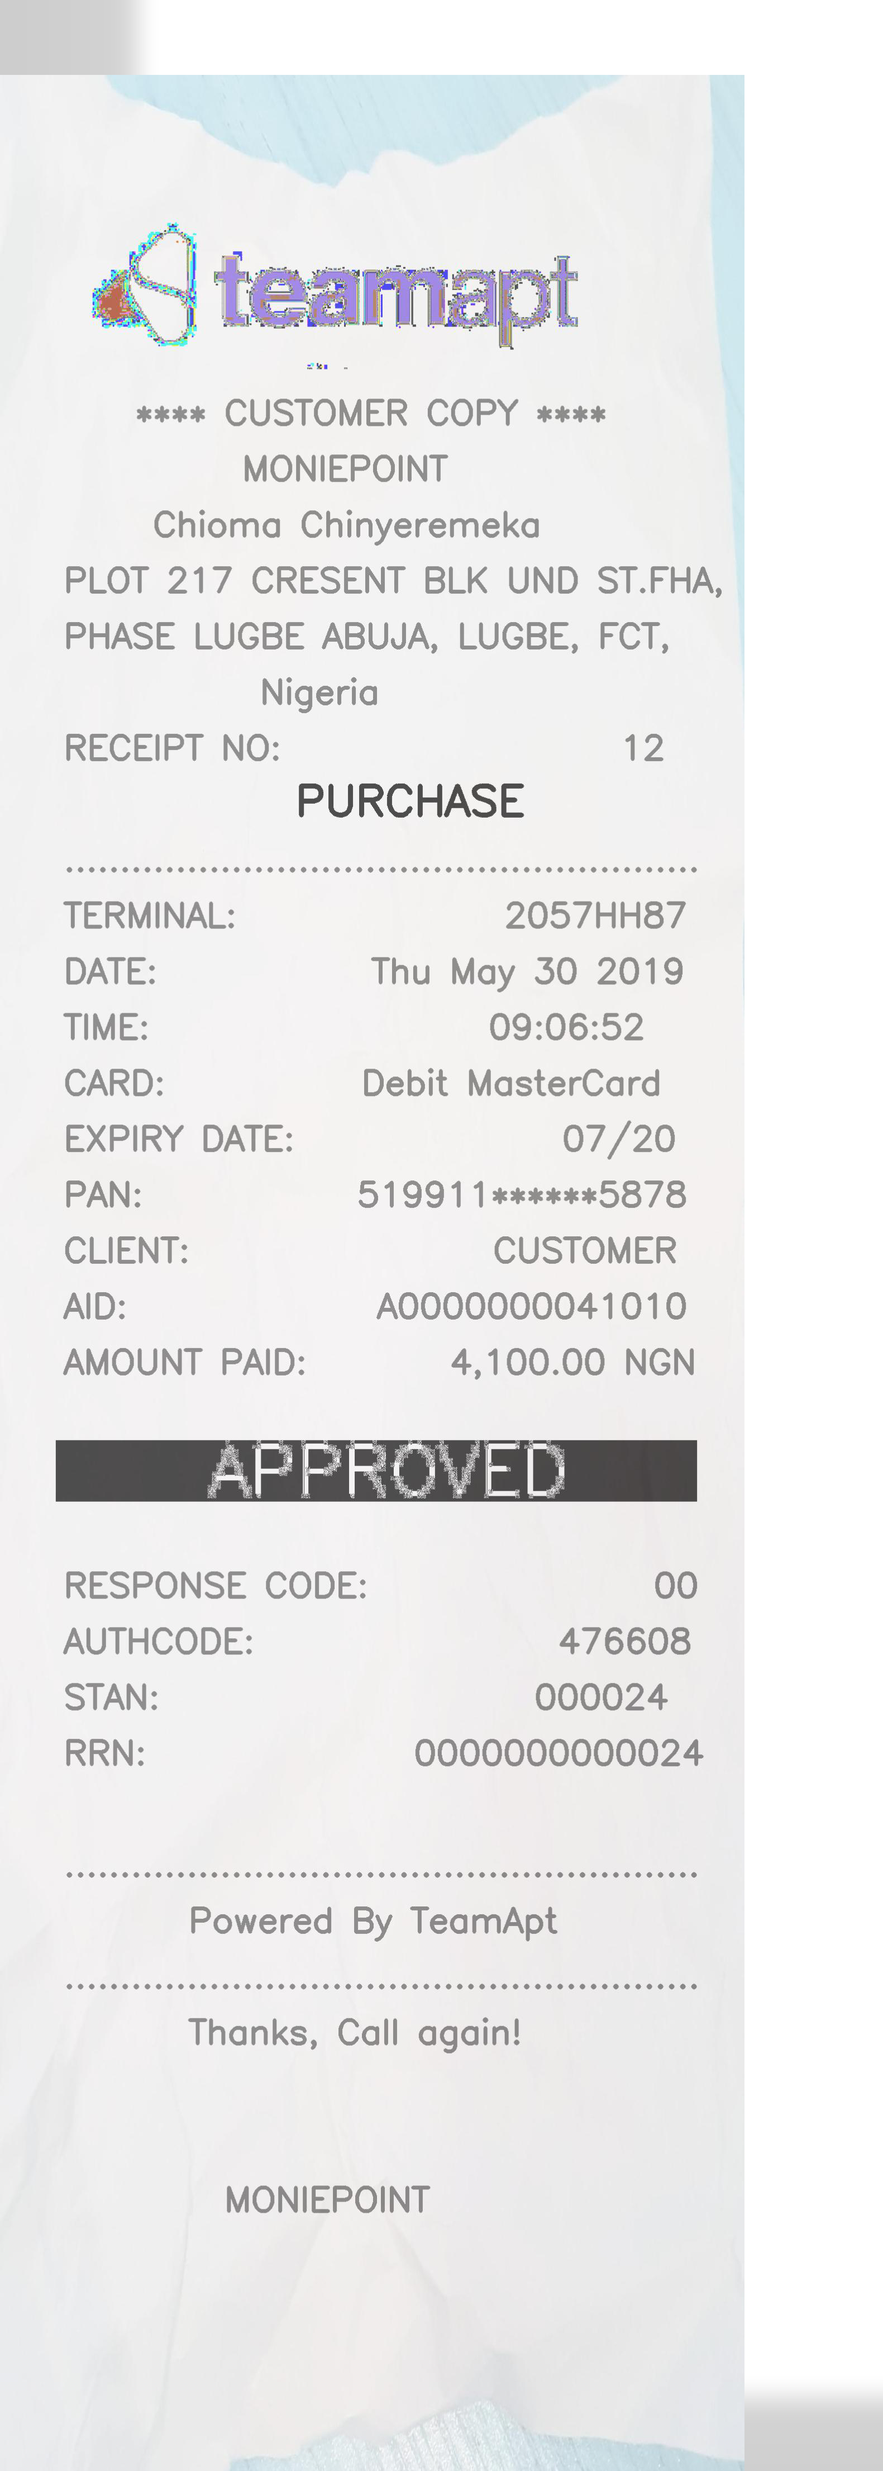
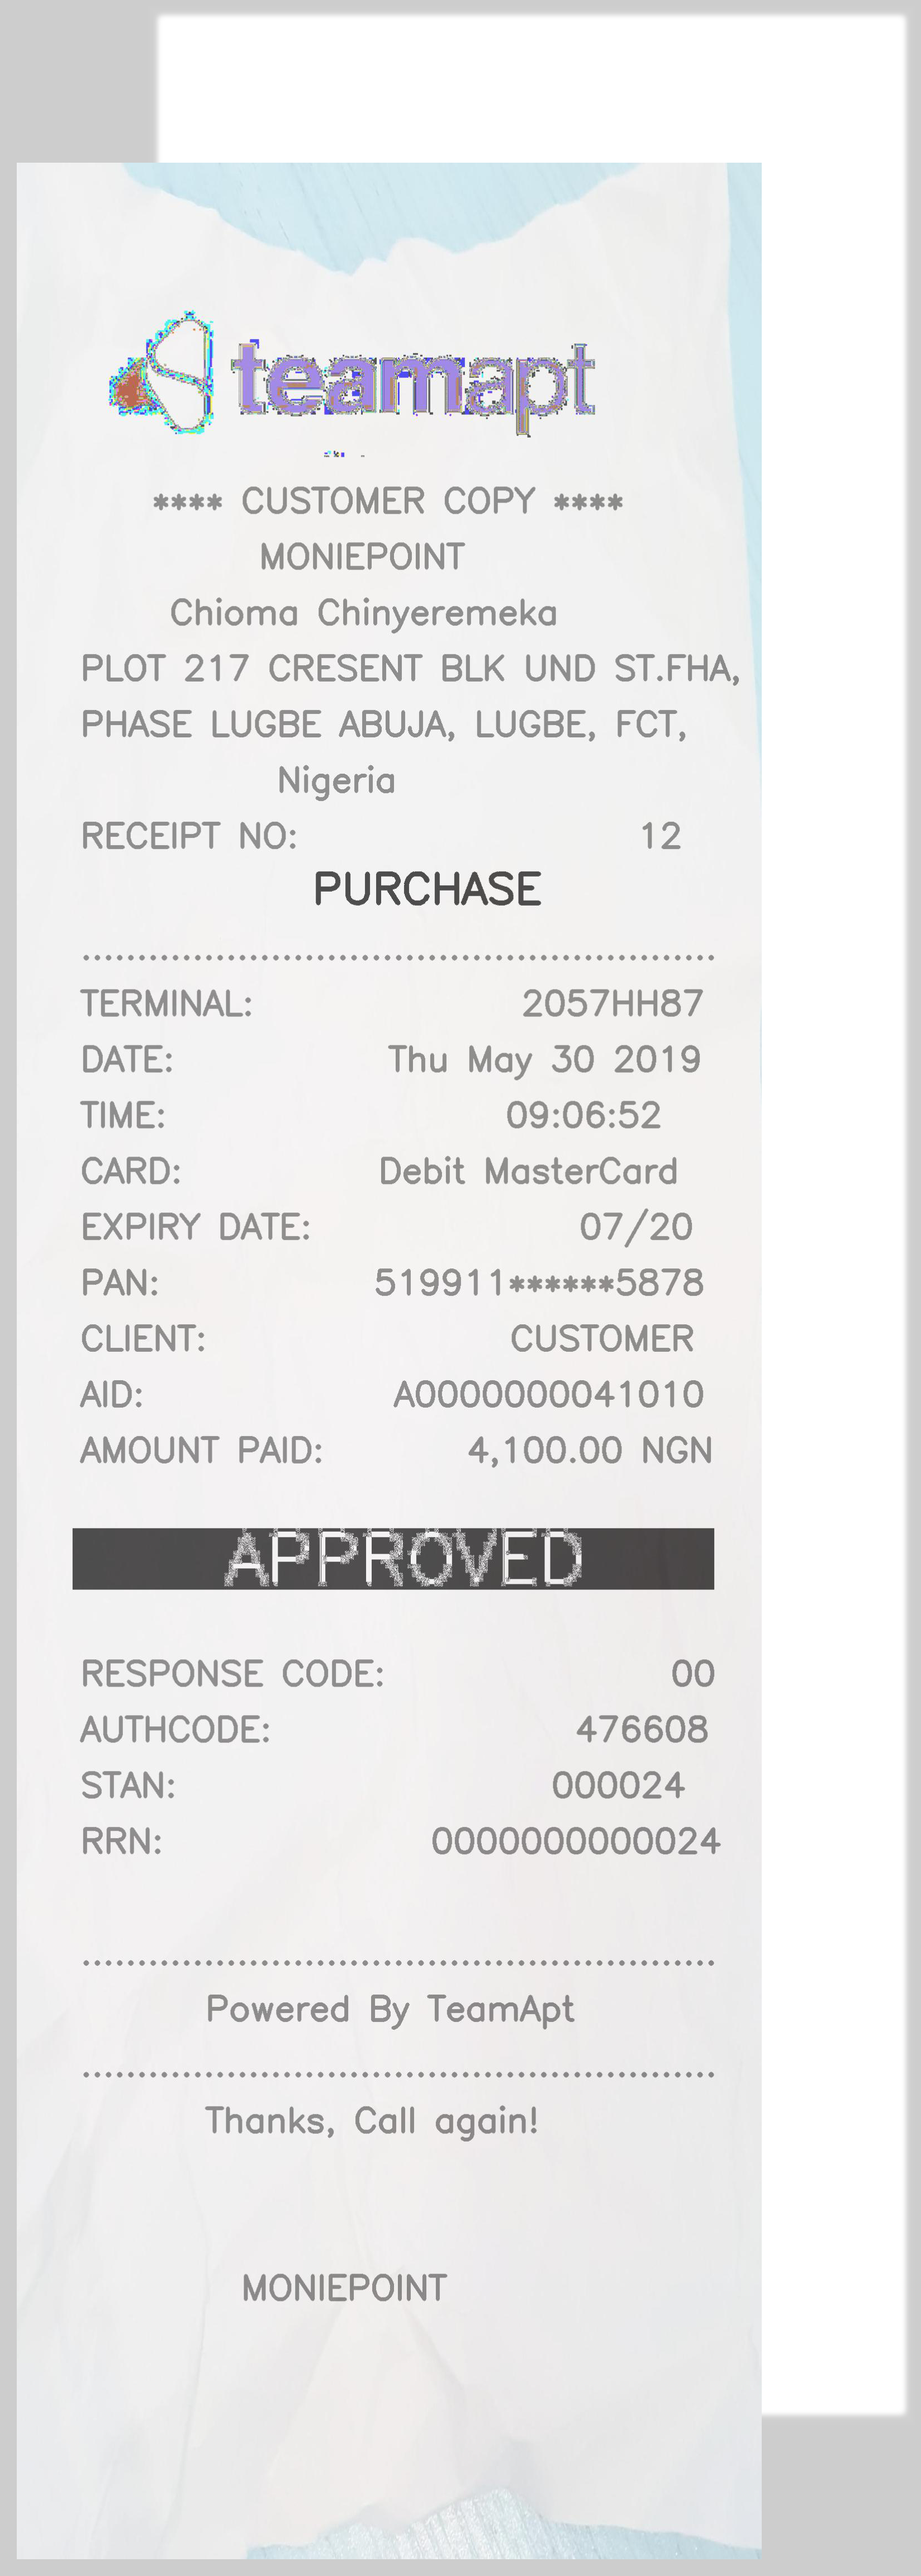
modified shadow transparency, blurr and color

diff --git a/factory.py b/factory.py
@@ -12,24 +12,22 @@ pathToBg = './bg/'
 outputPath = './production-ready/'
 shadowImgPath = './shadow-images/'
 
-for i in range(num):
+for i in range(1):
     print(i)
-    offset=(r.randint(100,300), r.randint(-300,-100))
+    offset=(r.randint(100,400), r.randint(-400,-100))
     print('shadow offset:', offset)
     
     img = sm.Image.open(pathToFinal + str(i+1) + '.jpg')
     bg = cv2.imread(pathToBg + str(i+1) + '.jpeg')
 
     # add shadow to image
-    shadow = sm.createShadow(img, offset=offset, border=0, background=0x000)
-    shadowImage = sm.addShadow(image=img, back_shadow=shadow, offset=offset, border=0, shadow=0x111111, iterations=10)
+    shadow = sm.createShadow(img, offset=offset, border=30, background=0x000000)
+    shadowImage = sm.addShadow(image=img, image_shadow=shadow, offset=offset, border=30, shadow_color=0x000000, iterations=10)
     shadowImage.save(shadowImgPath + str(i+1)+'.png')
-
     print('Finished generating shadow image...')
 
     # place shadowed image on background image
     shadowImg = cv2.imread(shadowImgPath + str(i+1)+'.png')
     weightedImage = w.placeImageOnBackground(shadowImg, bg)
     cv2.imwrite(outputPath + str(i+1)+'.jpg', weightedImage)
-
     print('Successfully placed shadow image on background')

diff --git a/make_image_3d.py b/make_image_3d.py
@@ -22,24 +22,17 @@ H = np.array([[C, -S, tx],
 
 # Translation matrix to shift the image center to the origin
 r, c, chans = img.shape
-T = np.array([[1, 0, -c],
-               [0, 1, -r],
+T = np.array([[1, 0, -c / 1.],
+               [0, 1, -r / 1.],
               [0, 0, 1]])
 
 # Skew, for perspective
-S = np.array([[3, 0, 0],
-              [0, 4, 0],
-              [0, 1e-3, 1]])
+S = np.array([[1, 0, 0],
+              [0, 1.3, 0],
+              [0, 1e-4, 1]])
 
 trans = ProjectiveTransform(T)
 img_rot = warp(img, H)
 img_rot_center_skew = warp(img, S.dot(np.linalg.inv(T).dot(H).dot(T)))
 
-skimage.io.imsave('./generated/rotated-image.png', img_rot)
 skimage.io.imsave('./generated/3d-image.png', img_rot_center_skew)
-
-# for i in [img, img_rot, img_rot_center_skew]:
-#     f, ax = plt.subplots(figsize=(20,20))
-#     ax.imshow(i, cmap=plt.cm.gray, interpolation='nearest')
-#     plt.show()
-    # plt.savefig('./generated/3d-image.png')

diff --git a/blend.py b/blend.py
@@ -34,3 +34,36 @@ for i in range(rows):
 cv2.imshow('Input', img)
 cv2.imshow('Vertical wave', img_output)
 cv2.waitKey()
+
+
+
+
+# import numpy as np
+# import matplotlib.pyplot as plt
+# from matplotlib.pyplot import imread
+# from mpl_toolkits.mplot3d import Axes3D
+# import scipy.ndimage as ndimage
+ 
+# imageFile = '../image/Josef-Albers.png'
+# mat = imread(imageFile)
+# mat = mat[:,:,0] # get the first channel
+# rows, cols = mat.shape
+# xv, yv = np.meshgrid(range(cols), range(rows)[::-1])
+ 
+# blurred = ndimage.gaussian_filter(mat, sigma=(5, 5), order=0)
+# fig = plt.figure(figsize=(6,6))
+ 
+# ax = fig.add_subplot(221)
+# ax.imshow(mat, cmap='gray')
+ 
+# ax = fig.add_subplot(222, projection='3d')
+# ax.elev= 75
+# ax.plot_surface(xv, yv, mat)
+ 
+# ax = fig.add_subplot(223)
+# ax.imshow(blurred, cmap='gray')
+ 
+# ax = fig.add_subplot(224, projection='3d')
+# ax.elev= 75
+# ax.plot_surface(xv, yv, blurred)
+# plt.show()

diff --git a/shadow_maker.py b/shadow_maker.py
@@ -27,8 +27,8 @@ def addShadow(image, image_shadow, offset, border, shadow_color, iterations):
    # is used, the filter must be applied repeatedly to get a decent blur.
    n = 0
    while n < iterations:
-       # back = back.filter(ImageFilter.BLUR)
-       image_shadow = image_shadow.filter(ImageFilter.GaussianBlur(20))
+       image_shadow = image_shadow.filter(ImageFilter.BLUR)
+    #    image_shadow = image_shadow.filter(ImageFilter.GaussianBlur(20))
        n += 1
 
    # Paste the input image onto the shadow backdrop
